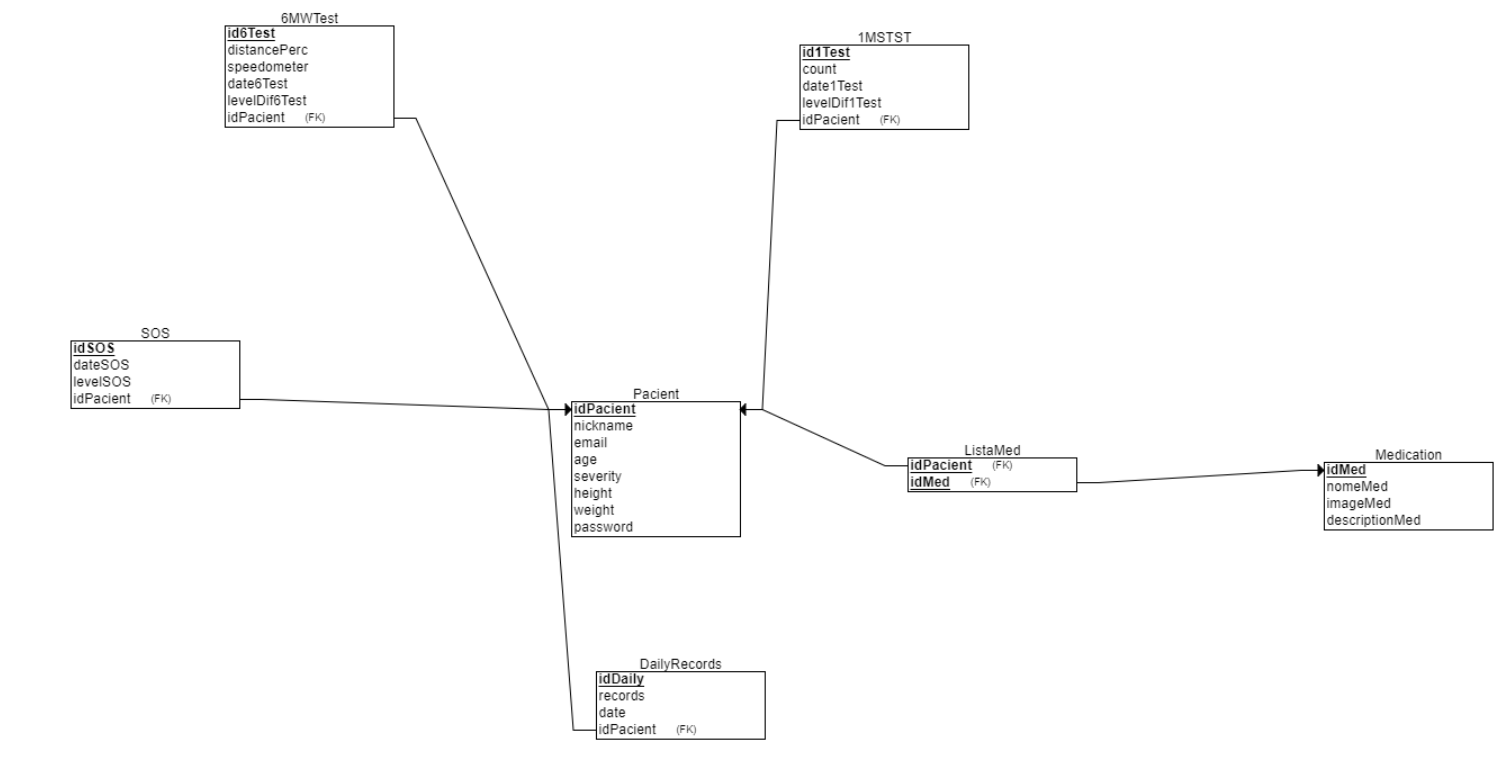
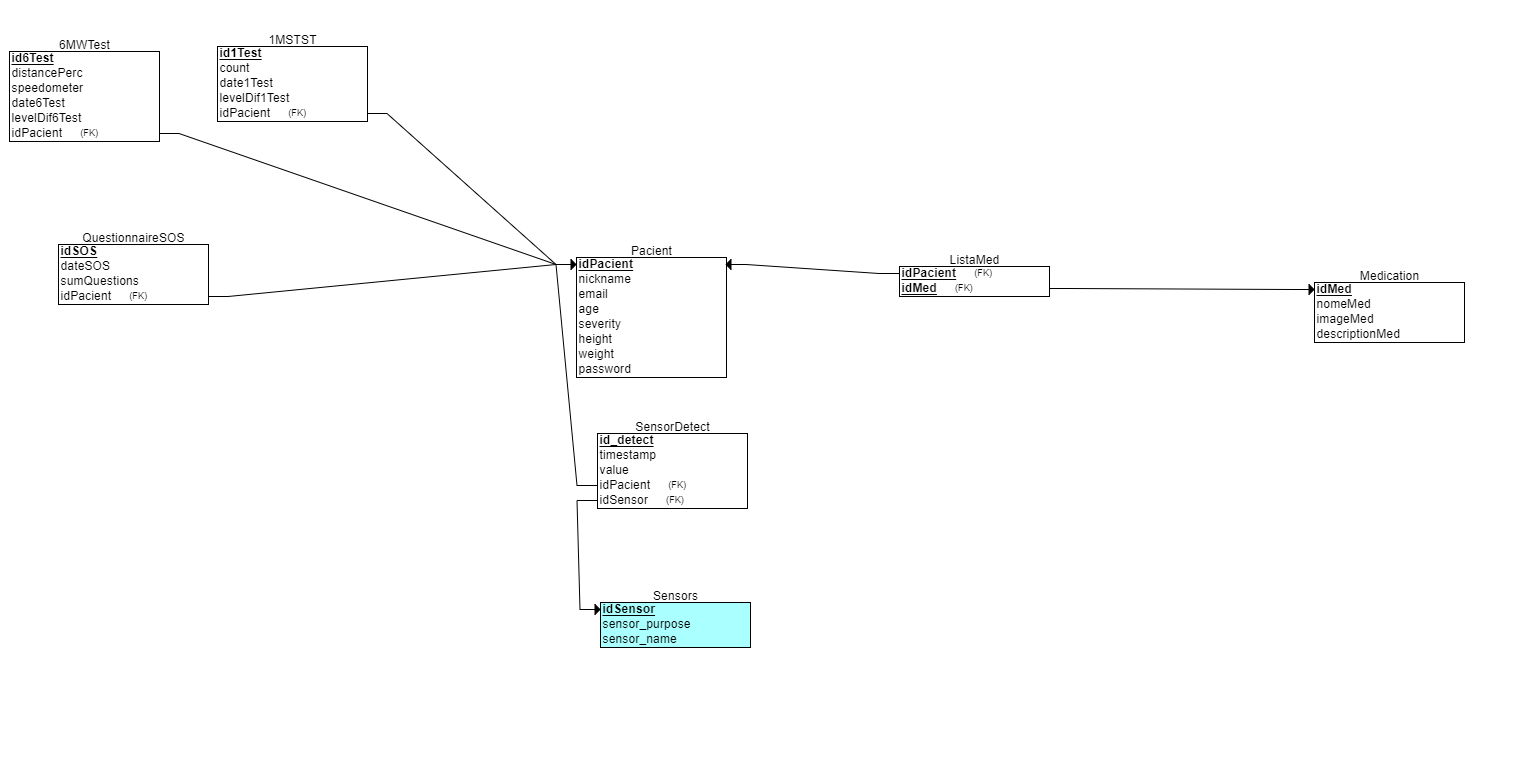
.

diff --git a/COPDMonitorApp/app/src/main/java/com/example/copdmonitorapp/FellingUnwellPageQ5.java b/COPDMonitorApp/app/src/main/java/com/example/copdmonitorapp/FellingUnwellPageQ5.java
@@ -73,156 +73,46 @@ public class FellingUnwellPageQ5 extends AppCompatActivity {
             sumSlides = slide1_value + slide2_value + slide3_value + slide4_value;
             Log.e("VALUE SLIDES", "SLIDE 1: " + slide1_value + "\nSLIDE 2: " + slide2_value + "\nSLIDE 3: " + slide3_value + "\nSLIDE 4: " + slide4_value + "\nSUM: " + sumSlides);
 
-            switch (sumSlides) {
-                case 0:
-                    drawable = getResources().getDrawable(R.drawable.ic_questionhappy);
-                    txtViewImageVector.setCompoundDrawablesWithIntrinsicBounds(drawable, null, null, null);
-                    txtViewTestResult.setText("Test Result: " + sumSlides + "/ [0 - 12]");
-                    /*
-                    txtViewInstruction1.setText(getString(R.string.noimpact_inst1));
-                    txtViewInstruction2.setText(getString(R.string.noimpact_inst2));
-                    txtViewInstruction3.setText(getString(R.string.noimpact_inst3));
-                    txtViewInstruction4.setText(getString(R.string.noimpact_inst4));
-                    */
-                    break;
-                case 1:
-                    drawable = getResources().getDrawable(R.drawable.ic_questionhappy);
-                    txtViewImageVector.setCompoundDrawablesWithIntrinsicBounds(drawable, null, null, null);
-                    txtViewTestResult.setText("Test Result: " + sumSlides + "/ [0 - 12]");
-                    /*
-                    txtViewInstruction1.setText(getString(R.string.noimpact_inst1));
-                    txtViewInstruction2.setText(getString(R.string.noimpact_inst2));
-                    txtViewInstruction3.setText(getString(R.string.noimpact_inst3));
-                    txtViewInstruction4.setText(getString(R.string.noimpact_inst4));
-                    */
-                    break;
-                case 2:
-                    drawable = getResources().getDrawable(R.drawable.ic_questionhappy);
-                    txtViewImageVector.setCompoundDrawablesWithIntrinsicBounds(drawable, null, null, null);
-                    txtViewTestResult.setText("Test Result: " + sumSlides + "/ [0 - 12]");
-                    /*
-                    txtViewInstruction1.setText(getString(R.string.noimpact_inst1));
-                    txtViewInstruction2.setText(getString(R.string.noimpact_inst2));
-                    txtViewInstruction3.setText(getString(R.string.noimpact_inst3));
-                    txtViewInstruction4.setText(getString(R.string.noimpact_inst4));
-                    */
-                    break;
-                case 3:
-                    drawable = getResources().getDrawable(R.drawable.ic_questionmoderate);
-                    txtViewImageVector.setCompoundDrawablesWithIntrinsicBounds(drawable, null, null, null);
-                    txtViewTestResult.setText("Test Result: " + sumSlides + "/ [0 - 12]");
-                    /*
-                    txtViewInstruction1.setText(getString(R.string.moderate_inst1));
-                    txtViewInstruction2.setText(getString(R.string.moderate_inst2));
-                    txtViewInstruction3.setText(getString(R.string.moderate_inst3));
-                    txtViewInstruction4.setText(getString(R.string.moderate_inst4));
-                    */
-                    break;
-                case 4:
-                    drawable = getResources().getDrawable(R.drawable.ic_questionmoderate);
-                    txtViewImageVector.setCompoundDrawablesWithIntrinsicBounds(drawable, null, null, null);
-                    txtViewTestResult.setText("Test Result: " + sumSlides + "/ [0 - 12]");
-                    /*
-                    txtViewInstruction1.setText(getString(R.string.moderate_inst1));
-                    txtViewInstruction2.setText(getString(R.string.moderate_inst2));
-                    txtViewInstruction3.setText(getString(R.string.moderate_inst3));
-                    txtViewInstruction4.setText(getString(R.string.moderate_inst4));
-                    */
-                    break;
-                case 5:
-                    drawable = getResources().getDrawable(R.drawable.ic_questionmoderate);
-                    txtViewImageVector.setCompoundDrawablesWithIntrinsicBounds(drawable, null, null, null);
-                    txtViewTestResult.setText("Test Result: " + sumSlides + "/ [0 - 12]");
-                    /*
-                    txtViewInstruction1.setText(getString(R.string.moderate_inst1));
-                    txtViewInstruction2.setText(getString(R.string.moderate_inst2));
-                    txtViewInstruction3.setText(getString(R.string.moderate_inst3));
-                    txtViewInstruction4.setText(getString(R.string.moderate_inst4));
-                    */
-                    break;
-                case 6:
-                    drawable = getResources().getDrawable(R.drawable.ic_questionmoderate);
-                    txtViewImageVector.setCompoundDrawablesWithIntrinsicBounds(drawable, null, null, null);
-                    txtViewTestResult.setText("Test Result: " + sumSlides + "/ [0 - 12]");
-                    /*
-                    txtViewInstruction1.setText(getString(R.string.moderate_inst1));
-                    txtViewInstruction2.setText(getString(R.string.moderate_inst2));
-                    txtViewInstruction3.setText(getString(R.string.moderate_inst3));
-                    txtViewInstruction4.setText(getString(R.string.moderate_inst4));
-                    */
-                    break;
-                case 7:
-                    drawable = getResources().getDrawable(R.drawable.ic_questionsad);
-                    txtViewImageVector.setCompoundDrawablesWithIntrinsicBounds(drawable, null, null, null);
-                    txtViewTestResult.setText("Test Result: " + sumSlides + "/ [0 - 12]");
-                    /*
-                    txtViewInstruction1.setText(getString(R.string.sad_inst1));
-                    txtViewInstruction2.setText(getString(R.string.sad_inst2));
-                    txtViewInstruction3.setText(getString(R.string.sad_inst3));
-                    txtViewInstruction4.setText(getString(R.string.sad_inst4));
-                    */
-                    break;
-                case 8:
-                    drawable = getResources().getDrawable(R.drawable.ic_questionsad);
-                    txtViewImageVector.setCompoundDrawablesWithIntrinsicBounds(drawable, null, null, null);
-                    txtViewTestResult.setText("Test Result: " + sumSlides + "/ [0 - 12]");
-                    /*
-                    txtViewInstruction1.setText(getString(R.string.sad_inst1));
-                    txtViewInstruction2.setText(getString(R.string.sad_inst2));
-                    txtViewInstruction3.setText(getString(R.string.sad_inst3));
-                    txtViewInstruction4.setText(getString(R.string.sad_inst4));
-                    */
-                    break;
-                case 9:
-                    drawable = getResources().getDrawable(R.drawable.ic_questionsad);
-                    txtViewImageVector.setCompoundDrawablesWithIntrinsicBounds(drawable, null, null, null);
-                    txtViewTestResult.setText("Test Result: " + sumSlides + "/ [0 - 12]");
-                    /*
-                    txtViewInstruction1.setText(getString(R.string.sad_inst1));
-                    txtViewInstruction2.setText(getString(R.string.sad_inst2));
-                    txtViewInstruction3.setText(getString(R.string.sad_inst3));
-                    txtViewInstruction4.setText(getString(R.string.sad_inst4));
-                    */
-                    break;
-                case 10:
-                    drawable = getResources().getDrawable(R.drawable.ic_questionsad);
-                    txtViewImageVector.setCompoundDrawablesWithIntrinsicBounds(drawable, null, null, null);
-                    txtViewTestResult.setText("Test Result: " + sumSlides + "/ [0 - 12]");
-                    /*
-                    txtViewInstruction1.setText(getString(R.string.sad_inst1));
-                    txtViewInstruction2.setText(getString(R.string.sad_inst2));
-                    txtViewInstruction3.setText(getString(R.string.sad_inst3));
-                    txtViewInstruction4.setText(getString(R.string.sad_inst4));
-                    */
-                    break;
-                case 11:
-                    drawable = getResources().getDrawable(R.drawable.ic_questionverysad);
-                    txtViewImageVector.setCompoundDrawablesWithIntrinsicBounds(drawable, null, null, null);
-                    txtViewTestResult.setText("Test Result: " + sumSlides + "/ [0 - 12]");
-                    /*
-                    txtViewInstruction1.setText(getString(R.string.verysad_inst1));
-                    txtViewInstruction2.setText(getString(R.string.verysad_inst2));
-                    txtViewInstruction3.setText(getString(R.string.verysad_inst3));
-                    txtViewInstruction4.setText(getString(R.string.verysad_inst4));
-                    */
-                    break;
-                case 12:
-                    drawable = getResources().getDrawable(R.drawable.ic_questionverysad);
-                    txtViewImageVector.setCompoundDrawablesWithIntrinsicBounds(drawable, null, null, null);
-                    txtViewTestResult.setText("Test Result: " + sumSlides + "/ [0 - 12]");
-                    /*
-                    txtViewInstruction1.setText(getString(R.string.verysad_inst1));
-                    txtViewInstruction2.setText(getString(R.string.verysad_inst2));
-                    txtViewInstruction3.setText(getString(R.string.verysad_inst3));
-                    txtViewInstruction4.setText(getString(R.string.verysad_inst4));
-                    */
-                    break;
-                default:
-                    break;
+
+            if (sumSlides >= 0 && sumSlides <= 3) {
+                drawable = getResources().getDrawable(R.drawable.ic_questionverysad);
+                txtViewImageVector.setCompoundDrawablesWithIntrinsicBounds(drawable, null, null, null);
+                /*
+                txtViewInstruction1.setText(getString(R.string.noimpact_inst1));
+                txtViewInstruction2.setText(getString(R.string.noimpact_inst2));
+                txtViewInstruction3.setText(getString(R.string.noimpact_inst3));
+                txtViewInstruction4.setText(getString(R.string.noimpact_inst4));
+                */
+            } else if (sumSlides >= 4 && sumSlides <= 7) {
+                drawable = getResources().getDrawable(R.drawable.ic_questionhappy);
+                txtViewImageVector.setCompoundDrawablesWithIntrinsicBounds(drawable, null, null, null);
+                /*
+                txtViewInstruction1.setText(getString(R.string.brief_inst1));
+                txtViewInstruction2.setText(getString(R.string.brief_inst2));
+                txtViewInstruction3.setText(getString(R.string.brief_inst3));
+                txtViewInstruction4.setText(getString(R.string.brief_inst4));
+                */
+            } else if (sumSlides >= 8 && sumSlides <= 11) {
+                drawable = getResources().getDrawable(R.drawable.ic_questionmoderate);
+                txtViewImageVector.setCompoundDrawablesWithIntrinsicBounds(drawable, null, null, null);
+                /*
+                txtViewInstruction1.setText(getString(R.string.moderate_inst1));
+                txtViewInstruction2.setText(getString(R.string.moderate_inst2));
+                txtViewInstruction3.setText(getString(R.string.moderate_inst3));
+                txtViewInstruction4.setText(getString(R.string.moderate_inst4));
+                 */
+            } else if (sumSlides >= 12 && sumSlides <= 16) {
+                drawable = getResources().getDrawable(R.drawable.ic_questionsad);
+                txtViewImageVector.setCompoundDrawablesWithIntrinsicBounds(drawable, null, null, null);
+                /*
+                txtViewInstruction1.setText(getString(R.string.sad_inst1));
+                txtViewInstruction2.setText(getString(R.string.sad_inst2));
+                txtViewInstruction3.setText(getString(R.string.sad_inst3));
+                txtViewInstruction4.setText(getString(R.string.sad_inst4));
+                */
+            } else {
+                Log.e("Resultados", "Pontuação Inválida: " + sumSlides);
             }
-
-
-
 
             // Navigation Drawer Finders
             drawerLayout = findViewById(R.id.drawerLayout);
@@ -309,10 +199,6 @@ public class FellingUnwellPageQ5 extends AppCompatActivity {
             closeDrawer(drawerLayout);
         }
 
-
-    public void onHomeButtonClick(View view) {
-        redirectActivity(FellingUnwellPageQ5.this,  HomePage.class);
-    }
 
     public void sendDetailedReportQuestionnaire(View view) {
     }

diff --git a/COPDMonitorApp/app/src/main/java/com/example/copdmonitorapp/DailyRecordsPage.java b/COPDMonitorApp/app/src/main/java/com/example/copdmonitorapp/DailyRecordsPage.java
@@ -206,10 +206,10 @@ public class DailyRecordsPage extends AppCompatActivity {
 
         @Override
         protected Boolean doInBackground(String... params) {
-            float PaCO2 = Float.parseFloat(params[0]);
-            float PaO2 = Float.parseFloat(params[1]);
-            int RespiratoryFreq= Integer.parseInt(params[2]);
-            float Temperature = Float.parseFloat(params[3]);
+            float v1 = Float.parseFloat(params[0]);
+            float v2 = Float.parseFloat(params[1]);
+            int v3 = Integer.parseInt(params[2]);
+            float v4 = Float.parseFloat(params[3]);
 
 
             String svurl = "jdbc:postgresql://copd-db-instance.cr6kvihylkhm.eu-north-1.rds.amazonaws.com:5432/copd_db";
@@ -231,17 +231,37 @@ public class DailyRecordsPage extends AppCompatActivity {
                             System.out.println("No patient found with that email address.");
                             return false;
                         }
-                        Log.e(TAG, "Cheguei");
-                        String sql = "INSERT INTO dailyrecords (paco2, pao2, respiratory_freq, temperature, timestamp, idpatient) VALUES (?, ?, ?, ?, ?, ?)";
+                        String sql = "INSERT INTO sensordetect (timestamp, value, idsensor, idpatient) VALUES (?, ?, ?, ?), (?, ?, ?, ?), (?, ?, ?, ?), (?, ?, ?, ?)";
+
                         try (PreparedStatement pstmt2 = conn.prepareStatement(sql)) {
-                                // set the parameter values
-                                pstmt2.setFloat(1, PaCO2);
-                                pstmt2.setFloat(2, PaO2);
-                                pstmt2.setInt(3, RespiratoryFreq);
-                                pstmt2.setFloat(4, Temperature);
-                                pstmt2.setTimestamp(5, new Timestamp(System.currentTimeMillis()));
-                                pstmt2.setInt(6, patientId);
-                                pstmt2.executeUpdate();
+                            Timestamp ts = new Timestamp(System.currentTimeMillis());
+
+                            // Set values for the first row
+                            pstmt2.setTimestamp(1, ts);
+                            pstmt2.setFloat(2, v1);
+                            pstmt2.setInt(3, 1);
+                            pstmt2.setInt(4, patientId);
+
+                            // Set values for the second row
+                            pstmt2.setTimestamp(5, ts);
+                            pstmt2.setFloat(6, v2);
+                            pstmt2.setInt(7, 2);
+                            pstmt2.setInt(8, patientId);
+
+                            // Set values for the thirst row
+                            pstmt2.setTimestamp(9, ts);
+                            pstmt2.setFloat(10, v3);
+                            pstmt2.setInt(11, 3);
+                            pstmt2.setInt(12, patientId);
+
+                            // Set values for the first row
+                            pstmt2.setTimestamp(13, ts);
+                            pstmt2.setFloat(14, v4);
+                            pstmt2.setInt(15, 4);
+                            pstmt2.setInt(16, patientId);
+
+                            // Execute the query
+                            pstmt2.executeUpdate();
                         }
                         return true;
                     }

diff --git a/Sprints/Sprint #11/Sprint11Notes.md b/Sprints/Sprint #11/Sprint11Notes.md
@@ -6,10 +6,13 @@
   - [ ]  Traçar gráfico norma da aceleração
   - [ ]  Montares o algoritmo de contagem de passos.
 
-- [ ]  2. Daily Records 
-  - [ ]  Modificação tabela (sensor 1 / sensor 2 / sensor 3 / sensor 4) -> Criar uma tabela que a cada sensor esteja a corresponder o nome de uma variável .
-  - [ ]  Modificar código
+- [X]  2. Daily Records 
+  - [X]  Modificação tabela (sensor 1 / sensor 2 / sensor 3 / sensor 4) -> Criar uma tabela que a cada sensor esteja a corresponder o nome de uma variável .
+  - [X]  Modificar código
+
+
+- [ ] 3. Colocar BD de acordo com FHIR
   
 - [x] 3. Perguntas SOS
   - [x] Modificar tabela para guardar o score de cada pergunta
-  - [ ] Melhorar página final
+  - [x] Melhorar página final
